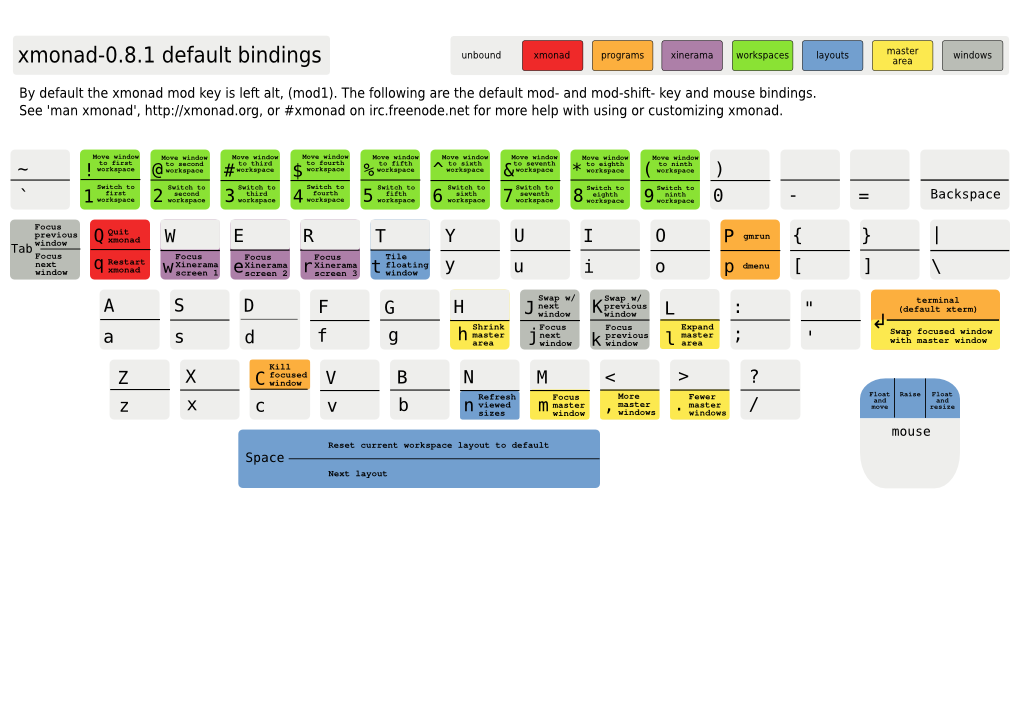
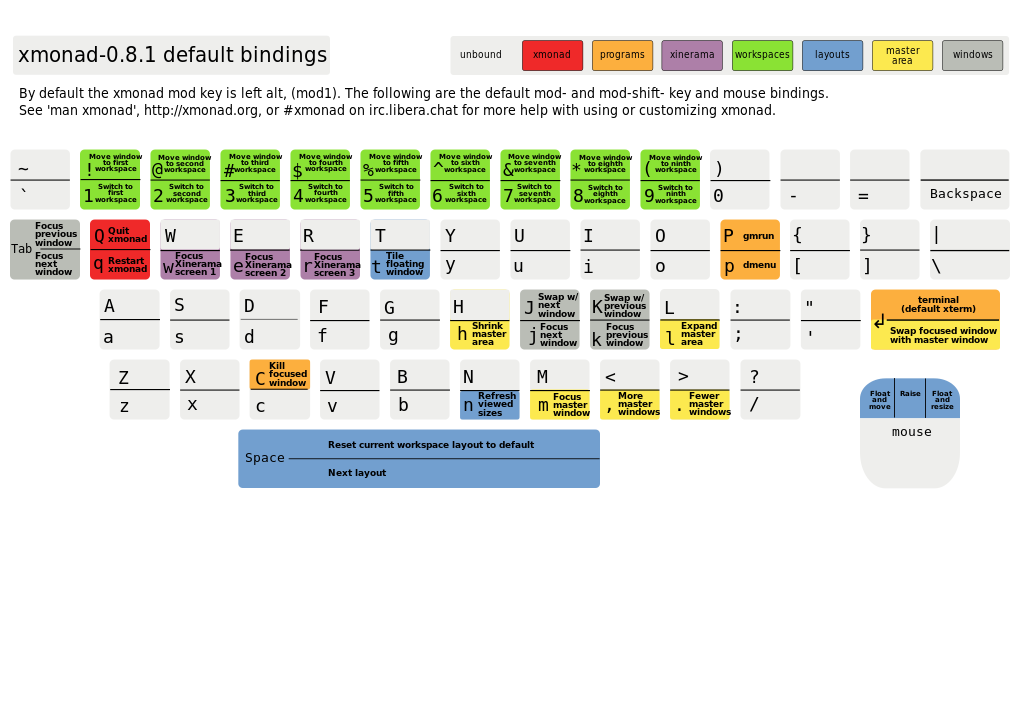
Switch IRC channel to irc.libera.chat
Since freenode has decided to kick us off because we said that we're
moving to Libera:

    Topic for #xmonad is "This channel has moved to ##xmonad. The topic is in violation of freenode policy: https://freenode.net/policies"
    Topic set by freenodecom (~com@freenode/staff) on Wed, 26 May 2021 04:59:51

it is high time we change the official channel on the website—even
though we don't even have OP on Libera yet.

Remaining problems:
  - The matrix channel had to be deleted for now; though matrix.org is
    working on bridging Libera
  - Libera does not have their own official webchat yet, so we have to
    resort to KIWIIRC for now (this doesn't seem that bad, however)

Related: https://github.com/xmonad/xmonad/issues/287

diff --git a/index.html b/index.html
@@ -82,7 +82,7 @@ layout: header
             </li>
             <li>
                 Follow us on <a href="https://twitter.com/xmonad">twitter</a>, or join the <a href="https://reddit.com/r/xmonad">xmonad
-                subreddit</a>, or come say hi in the IRC channel (#xmonad @ freenode.org)!
+                subreddit</a>, or come say hi in the IRC channel (#xmonad@irc.libera.chat)!
             </li>
             <li>
                 Checkout some amazing <a href="videos.html">videos</a> about xmonad, and see what other people
@@ -125,7 +125,7 @@ layout: header
             </li>
             <li>
                 <strong>friendly</strong>: an active, friendly
-                <a href="https://mail.haskell.org/cgi-bin/mailman/listinfo/xmonad">mailing list</a> and IRC channel (#xmonad @ freenode.org) are waiting to help you
+                <a href="https://mail.haskell.org/cgi-bin/mailman/listinfo/xmonad">mailing list</a> and IRC channel (#xmonad@irc.libera.chat) are waiting to help you
                 get up and running.
             </li>
         </ul>

diff --git a/community.md b/community.md
@@ -7,8 +7,7 @@ title: Community
 
 ### The xmonad community
 
-*   [the irc channel](https://wiki.haskell.org/IRC_channel): `#xmonad@chat.freenode.org` (join it via [webchat](https://webchat.freenode.net/#xmonad))
-*   [the matrix channel](https://matrix.to/#/#freenode_#xmonad:matrix.org): this is linked to the above IRC channel
+*   [the irc channel](https://www.haskell.org/irc/): `#xmonad@irc.libera.chat` (join it via [kiwiirc](https://kiwiirc.com/nextclient/irc.libera.chat/?#xmonad))
 *   [xmonad on twitter](https://twitter.com/xmonad)
 *   [the subreddit](https://old.reddit.com/r/xmonad/)
 *   [the mailing list](https://mail.haskell.org/cgi-bin/mailman/listinfo/xmonad) (archives: [pipermail](https://mail.haskell.org/pipermail/xmonad/))

diff --git a/install-instructions.md b/install-instructions.md
@@ -79,7 +79,7 @@ From time to time people have build problems. Almost always this is due to missi
 *   [xmonad does not detect my multi-head setup](https://wiki.haskell.org/Xmonad/Frequently_asked_questions#xmonad_does_not_detect_my_multi-head_setup)
 *   [Cabal: Executable stanza starting with field ...](https://wiki.haskell.org/Xmonad/Frequently_asked_questions#Cabal:_Executable_stanza_starting_with_field_.27flag_small_base_description.27)
 
-If this doesn't help, try asking on the IRC channel, #xmonad @ freenode.org, or on the mailing list.
+If this doesn't help, try asking on the IRC channel, `#xmonad@irc.libera.chat`, or on the mailing list.
 
 #### Grab dmenu and dzen
 
